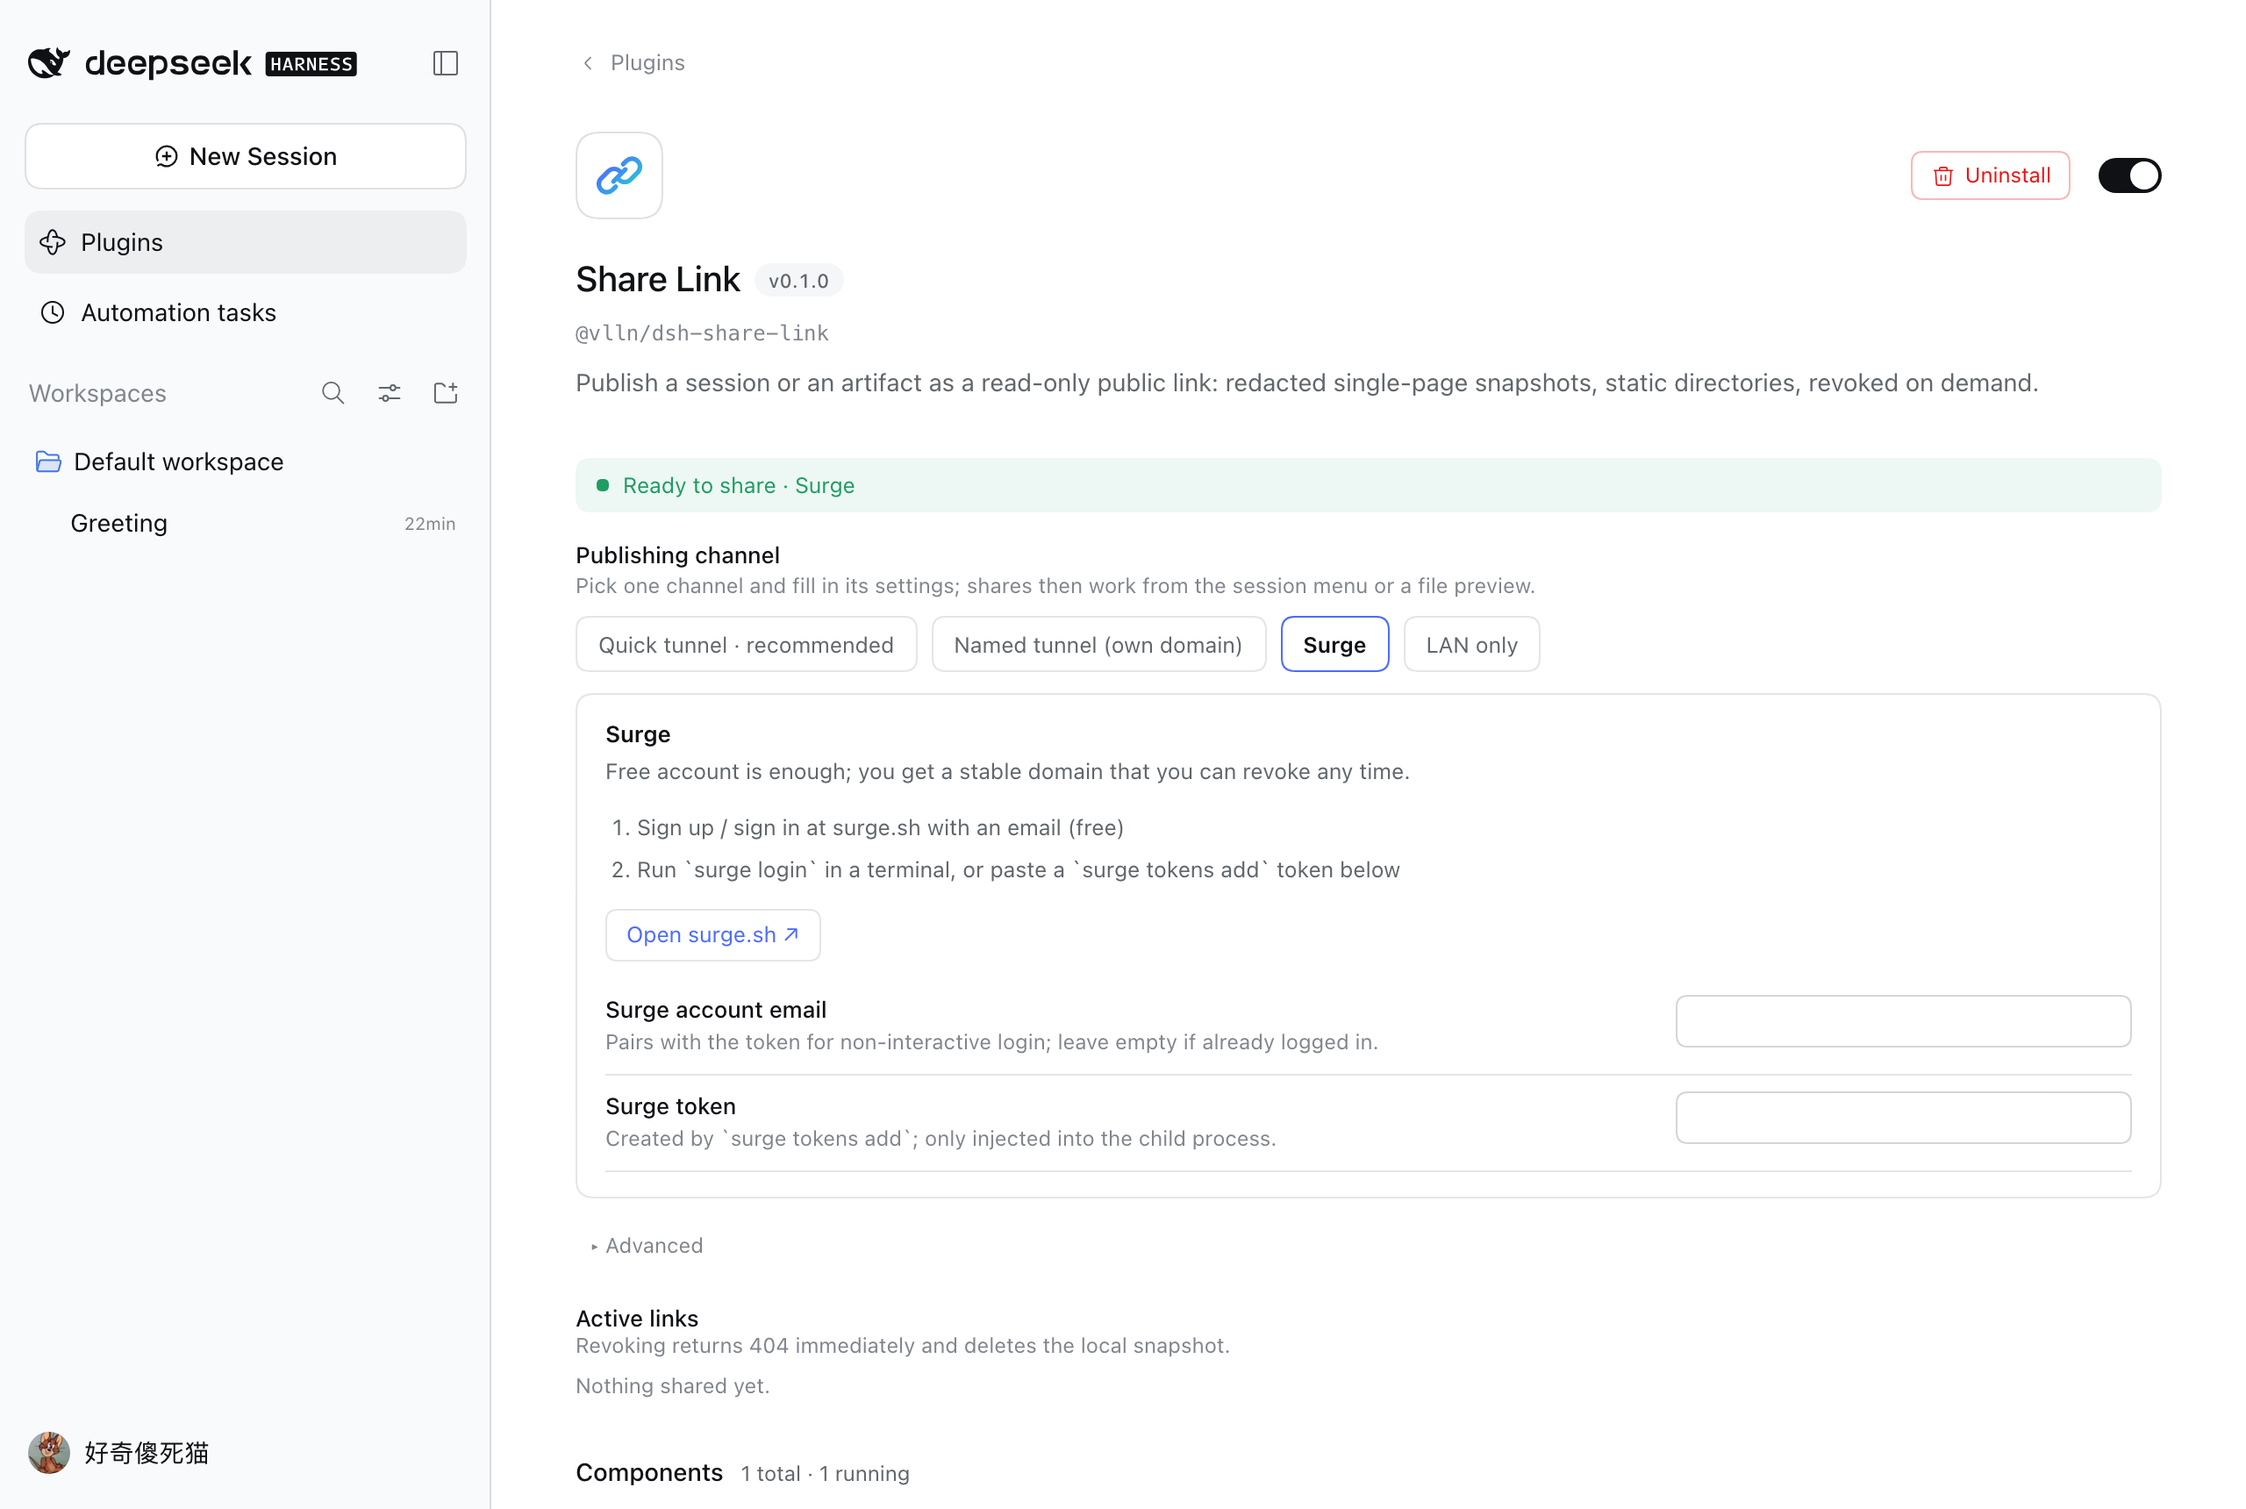
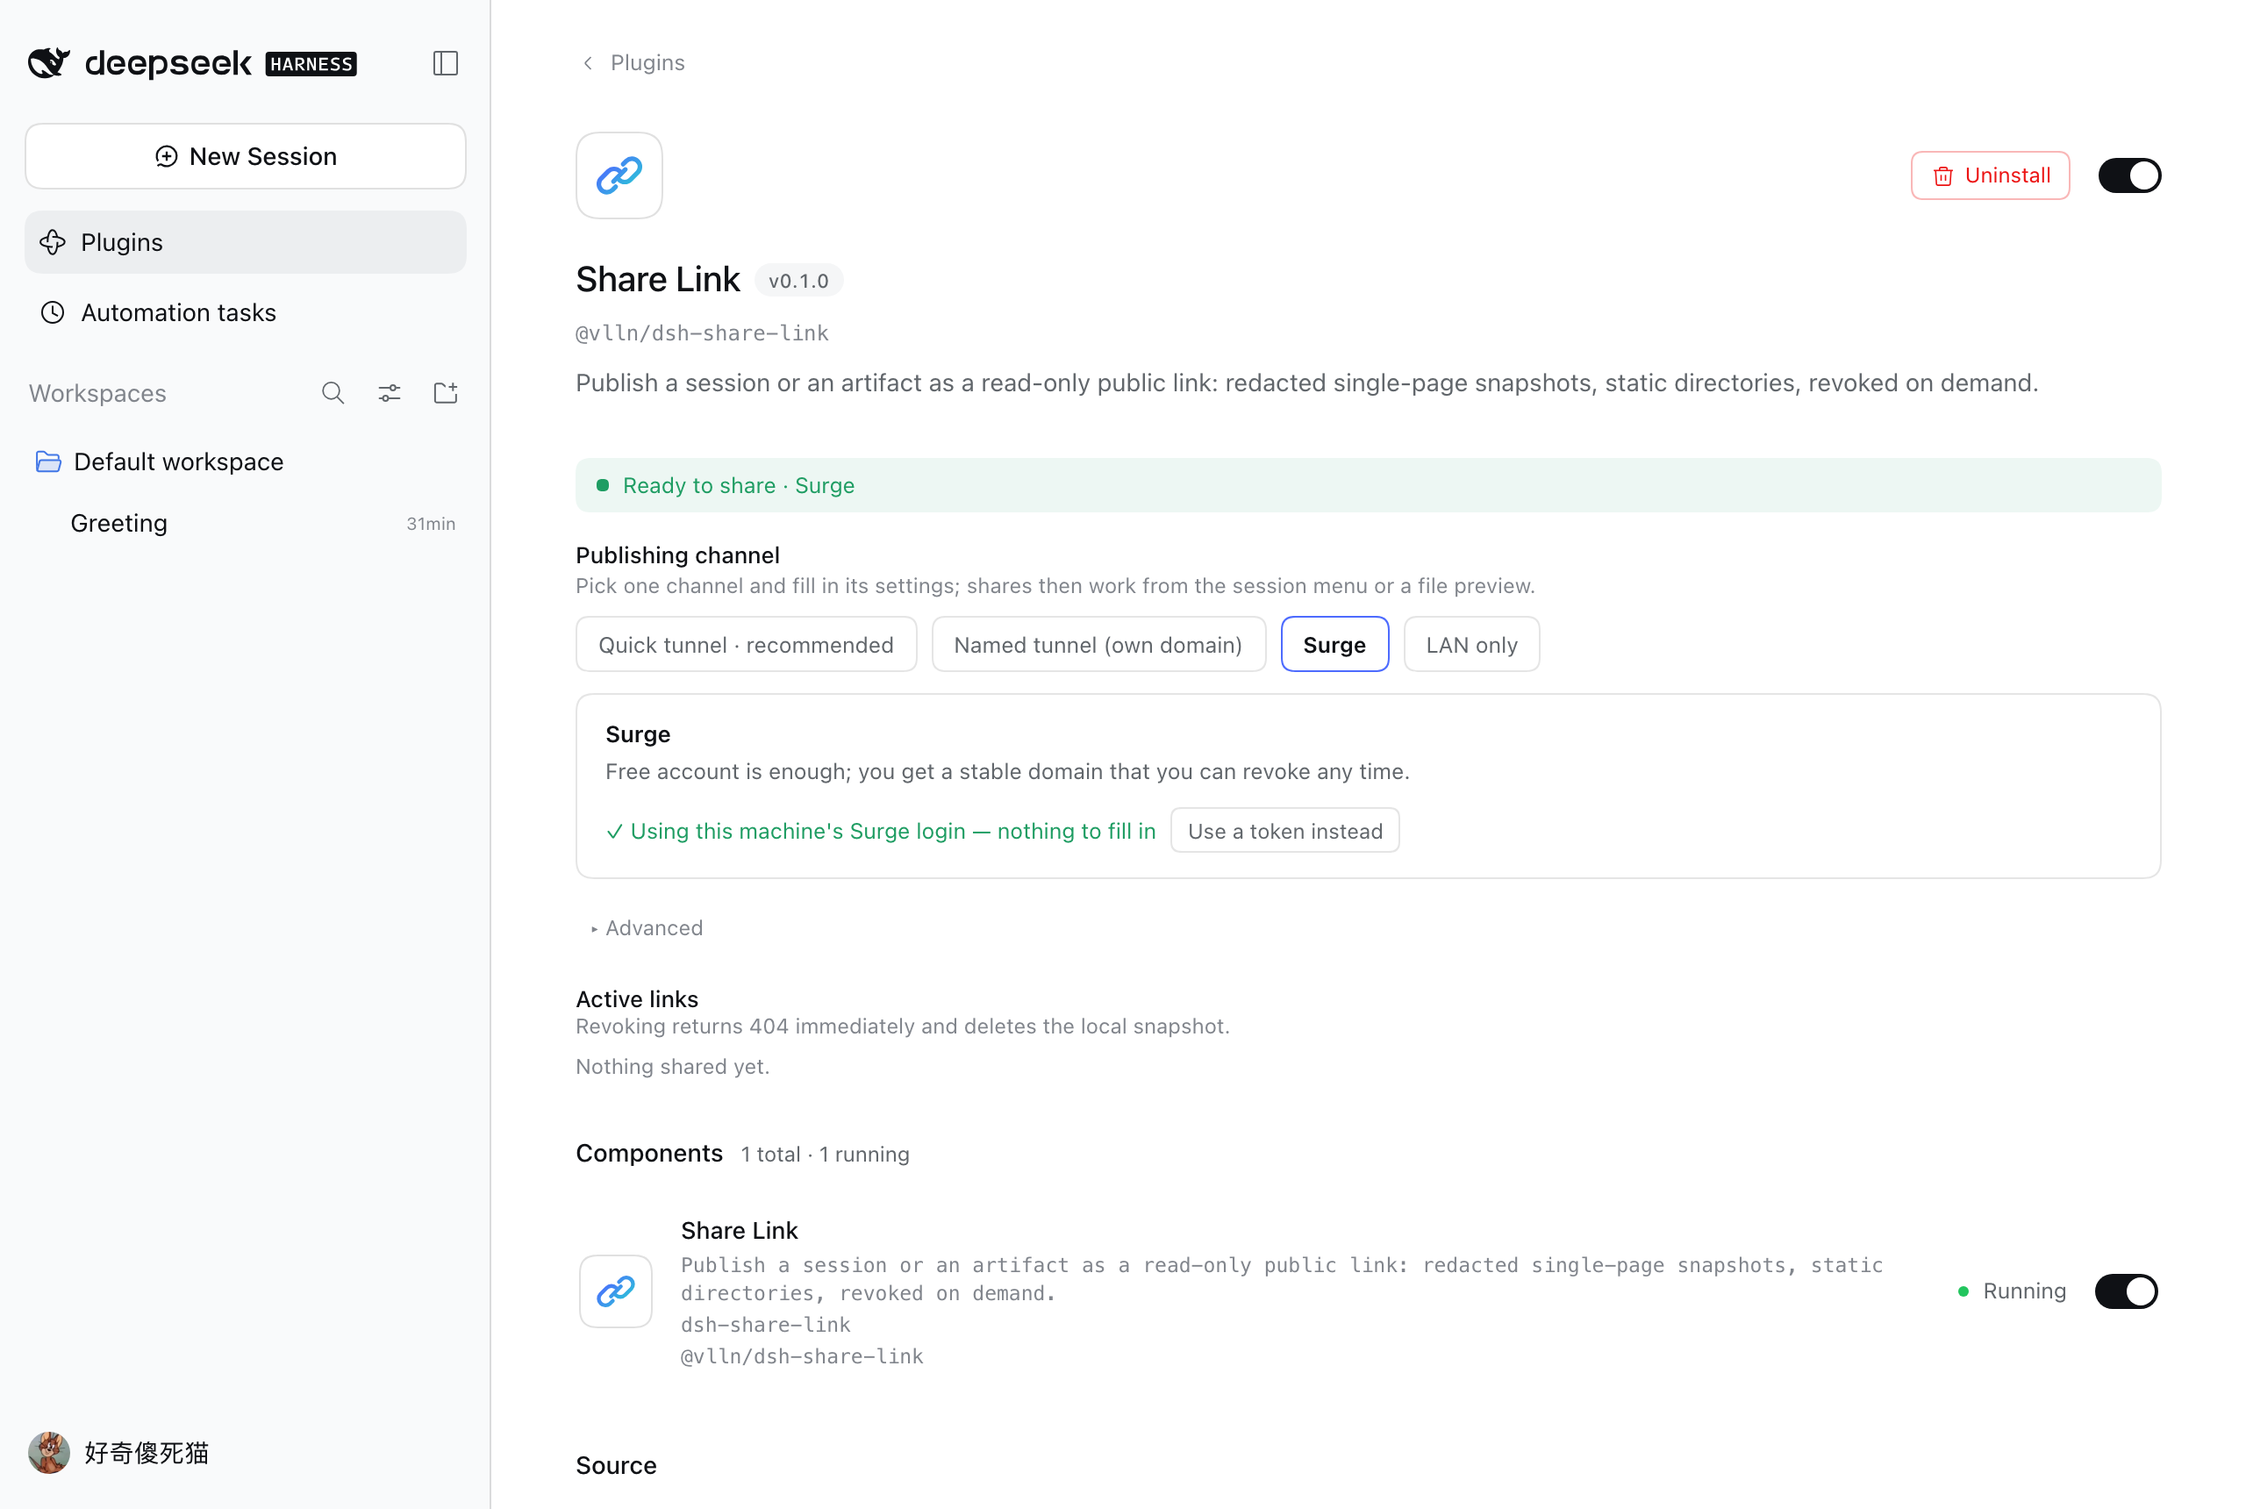
feat(ux): Surge 就绪时零字段；未就绪给步骤 + 可复制的 surge login
- status 返回 via（config-token / env-token / netrc）
- 本机已登录：隐藏步骤/入口/输入框，只留一行绿字与「改用 token」
- 未就绪：保留步骤、官方入口与一条可复制的 surge login 命令

diff --git a/src/client/settings-card.ts b/src/client/settings-card.ts
@@ -42,7 +42,7 @@ const CHANNEL_INFO = {
   surge: {
     name: (t) => t('channel.surge'),
     desc: (t) => t('channel.surge.desc'),
-    fields: ['surgeLogin', 'surgeToken'],
+    fields: ['surgeToken'],
     steps: (t) => [t('step.surge.1'), t('step.surge.2')],
     link: { href: 'https://surge.sh/', text: (t) => t('link.surge') },
   },
@@ -195,6 +195,30 @@ function SharesPanel(props) {
   )
 }
 
+/** 复制一条命令（用在 surge login 这类"必须开终端"的步骤上）。 */
+function CopyCommand(props) {
+  const { command, t } = props
+  const [done, setDone] = React.useState(false)
+  return el('button', {
+    type: 'button',
+    'data-copy-command': command,
+    onClick: async () => {
+      try {
+        await navigator.clipboard.writeText(command)
+        setDone(true)
+        setTimeout(() => setDone(false), 1400)
+      } catch {
+        /* 手动选中即可 */
+      }
+    },
+    style: {
+      height: 26, padding: '0 9px', borderRadius: 7, cursor: 'pointer',
+      border: '0.5px solid var(--dsw-alias-border-l2)', background: 'transparent',
+      color: 'var(--dsw-alias-label-secondary)', fontSize: 12,
+    },
+  }, done ? t('copied') : t('copy'))
+}
+
 /** 设置卡本体。 */
 export function SettingsCard(props) {
   const state = props.useShareSettings((value) => value)
@@ -202,6 +226,7 @@ export function SettingsCard(props) {
   const [resetToken, setResetToken] = React.useState(0)
   const [failed, setFailed] = React.useState('')
   const [advanced, setAdvanced] = React.useState(false)
+  const [showToken, setShowToken] = React.useState(false)
   const [status, setStatus] = React.useState(null)
   const channel = channelOf(state.value ?? {})
 
@@ -237,6 +262,10 @@ export function SettingsCard(props) {
     if (target.id === 'quick' || target.id === 'named') commit('tunnelMode', target.id)
   }
 
+  // 本机已登录 Surge 时，步骤与入口都不再需要（还有 "改用 token" 的出口）。
+  const settled =
+    channel === 'surge' && status !== null && status.ready === true && status.via === 'netrc' &&
+    (state.value.surgeToken ?? '') === '' && !showToken
   const info = CHANNEL_INFO[channel]
   const steps = info.steps === undefined ? [] : info.steps(t)
   const field = (key) =>
@@ -311,14 +340,27 @@ export function SettingsCard(props) {
       },
       el('div', { style: { fontSize: 13, fontWeight: 600, marginBottom: 4 } }, info.name(t)),
       el('div', { style: { fontSize: 12.5, lineHeight: 1.6, color: 'var(--dsw-alias-label-secondary)' } }, info.desc(t)),
-      steps.length === 0
+      steps.length === 0 || settled
         ? null
         : el(
             'ol',
             { style: { margin: '10px 0 0', paddingLeft: 18, fontSize: 12.5, lineHeight: 1.9, color: 'var(--dsw-alias-label-secondary)' } },
             steps.map((step, index) => el('li', { key: index }, step)),
           ),
-      info.link === undefined
+      channel === 'surge' && (status === null || status.ready === false)
+        ? el(
+            'div',
+            { style: { marginTop: 10, display: 'flex', alignItems: 'center', gap: 8, flexWrap: 'wrap' } },
+            el('code', {
+              style: {
+                font: '11.5px/1.9 ui-monospace, Menlo, monospace', padding: '2px 8px', borderRadius: 6,
+                border: '0.5px solid var(--dsw-alias-border-l2)', background: 'var(--dsw-alias-bg-elevated, #fff)',
+              },
+            }, 'surge login'),
+            el(CopyCommand, { command: 'surge login', t }),
+          )
+        : null,
+      info.link === undefined || settled
         ? null
         : el(
             'div',
@@ -336,8 +378,22 @@ export function SettingsCard(props) {
               },
             }, info.link.text(t), ' ↗'),
           ),
+      // Surge：本机已登录（~/.netrc）就什么都不用填，只给一个"改用 token"的出口
+      settled
+        ? el(
+            'div',
+            { 'data-share-surge-login': 'netrc', style: { marginTop: 10, display: 'flex', alignItems: 'center', gap: 8, flexWrap: 'wrap' } },
+            el('span', { style: { fontSize: 12.5, color: '#1f9d63' } }, `✓ ${t('surge.localLogin')}`),
+            el('button', {
+              type: 'button',
+              onClick: () => setShowToken(true),
+              style: { height: 26, padding: '0 9px', borderRadius: 7, border: '0.5px solid var(--dsw-alias-border-l2)', background: 'transparent', color: 'var(--dsw-alias-label-secondary)', fontSize: 12, cursor: 'pointer' },
+            }, t('surge.useToken')),
+          )
+        : null,
+
       // 需要的字段直接放在说明卡里，填完就是配好了
-      info.fields.length === 0
+      info.fields.length === 0 || settled
         ? null
         : el('div', { style: { display: 'flex', flexDirection: 'column', marginTop: 10 } }, info.fields.map(field)),
     ),
@@ -437,6 +493,10 @@ export const zh = {
   'step.surge.1': '用邮箱在 surge.sh 注册并登录（免费）',
   'step.surge.2': '在终端运行 surge login；或把 surge tokens add 生成的 token 填到下面',
   'link.surge': '打开 surge.sh',
+  copy: '复制',
+  copied: '已复制',
+  'surge.localLogin': '已使用本机 Surge 登录态，不用填任何东西',
+  'surge.useToken': '改用 token',
   'step.named.1': 'Cloudflare Zero Trust → Networks → Tunnels → 创建隧道',
   'step.named.2': '给隧道加 Public Hostname，指向 localhost:3089',
   'step.named.3': '把隧道 token 和完整域名填到下面',
@@ -488,6 +548,10 @@ export const en = {
   'step.surge.1': 'Sign up / sign in at surge.sh with an email (free)',
   'step.surge.2': 'Run `surge login` in a terminal, or paste a `surge tokens add` token below',
   'link.surge': 'Open surge.sh',
+  copy: 'Copy',
+  copied: 'Copied',
+  'surge.localLogin': 'Using this machine\'s Surge login — nothing to fill in',
+  'surge.useToken': 'Use a token instead',
   'step.named.1': 'Cloudflare Zero Trust → Networks → Tunnels → create a tunnel',
   'step.named.2': 'Add a Public Hostname pointing at localhost:3089',
   'step.named.3': 'Paste the tunnel token and the full hostname below',

diff --git a/lib/client.js b/lib/client.js
@@ -78,7 +78,7 @@ window.__ModuleLoader__.load({
 			surge: {
 				name: (t) => t("channel.surge"),
 				desc: (t) => t("channel.surge.desc"),
-				fields: ["surgeLogin", "surgeToken"],
+				fields: ["surgeToken"],
 				steps: (t) => [t("step.surge.1"), t("step.surge.2")],
 				link: {
 					href: "https://surge.sh/",
@@ -291,6 +291,32 @@ window.__ModuleLoader__.load({
 				}
 			}, pending === row.id ? t("shares.revoking") : t("shares.revoke")))));
 		}
+		/** 复制一条命令（用在 surge login 这类"必须开终端"的步骤上）。 */
+		function CopyCommand(props) {
+			const { command, t } = props;
+			const [done, setDone] = react.default.useState(false);
+			return el("button", {
+				type: "button",
+				"data-copy-command": command,
+				onClick: async () => {
+					try {
+						await navigator.clipboard.writeText(command);
+						setDone(true);
+						setTimeout(() => setDone(false), 1400);
+					} catch {}
+				},
+				style: {
+					height: 26,
+					padding: "0 9px",
+					borderRadius: 7,
+					cursor: "pointer",
+					border: "0.5px solid var(--dsw-alias-border-l2)",
+					background: "transparent",
+					color: "var(--dsw-alias-label-secondary)",
+					fontSize: 12
+				}
+			}, done ? t("copied") : t("copy"));
+		}
 		/** 设置卡本体。 */
 		function SettingsCard(props) {
 			const state = props.useShareSettings((value) => value);
@@ -298,6 +324,7 @@ window.__ModuleLoader__.load({
 			const [resetToken, setResetToken] = react.default.useState(0);
 			const [failed, setFailed] = react.default.useState("");
 			const [advanced, setAdvanced] = react.default.useState(false);
+			const [showToken, setShowToken] = react.default.useState(false);
 			const [status, setStatus] = react.default.useState(null);
 			const channel = channelOf(state.value ?? {});
 			react.default.useEffect(() => {
@@ -325,6 +352,7 @@ window.__ModuleLoader__.load({
 				commit("provider", target.provider);
 				if (target.id === "quick" || target.id === "named") commit("tunnelMode", target.id);
 			};
+			const settled = channel === "surge" && status !== null && status.ready === true && status.via === "netrc" && (state.value.surgeToken ?? "") === "" && !showToken;
 			const info = CHANNEL_INFO[channel];
 			const steps = info.steps === void 0 ? [] : info.steps(t);
 			const field = (key) => el(Field, {
@@ -411,13 +439,28 @@ window.__ModuleLoader__.load({
 				fontSize: 12.5,
 				lineHeight: 1.6,
 				color: "var(--dsw-alias-label-secondary)"
-			} }, info.desc(t)), steps.length === 0 ? null : el("ol", { style: {
+			} }, info.desc(t)), steps.length === 0 || settled ? null : el("ol", { style: {
 				margin: "10px 0 0",
 				paddingLeft: 18,
 				fontSize: 12.5,
 				lineHeight: 1.9,
 				color: "var(--dsw-alias-label-secondary)"
-			} }, steps.map((step, index) => el("li", { key: index }, step))), info.link === void 0 ? null : el("div", { style: { marginTop: 10 } }, el("a", {
+			} }, steps.map((step, index) => el("li", { key: index }, step))), channel === "surge" && (status === null || status.ready === false) ? el("div", { style: {
+				marginTop: 10,
+				display: "flex",
+				alignItems: "center",
+				gap: 8,
+				flexWrap: "wrap"
+			} }, el("code", { style: {
+				font: "11.5px/1.9 ui-monospace, Menlo, monospace",
+				padding: "2px 8px",
+				borderRadius: 6,
+				border: "0.5px solid var(--dsw-alias-border-l2)",
+				background: "var(--dsw-alias-bg-elevated, #fff)"
+			} }, "surge login"), el(CopyCommand, {
+				command: "surge login",
+				t
+			})) : null, info.link === void 0 || settled ? null : el("div", { style: { marginTop: 10 } }, el("a", {
 				href: info.link.href,
 				target: "_blank",
 				rel: "noreferrer",
@@ -435,7 +478,32 @@ window.__ModuleLoader__.load({
 					border: "0.5px solid var(--dsw-alias-border-l2)",
 					background: "var(--dsw-alias-bg-elevated, #fff)"
 				}
-			}, info.link.text(t), " ↗")), info.fields.length === 0 ? null : el("div", { style: {
+			}, info.link.text(t), " ↗")), settled ? el("div", {
+				"data-share-surge-login": "netrc",
+				style: {
+					marginTop: 10,
+					display: "flex",
+					alignItems: "center",
+					gap: 8,
+					flexWrap: "wrap"
+				}
+			}, el("span", { style: {
+				fontSize: 12.5,
+				color: "#1f9d63"
+			} }, `✓ ${t("surge.localLogin")}`), el("button", {
+				type: "button",
+				onClick: () => setShowToken(true),
+				style: {
+					height: 26,
+					padding: "0 9px",
+					borderRadius: 7,
+					border: "0.5px solid var(--dsw-alias-border-l2)",
+					background: "transparent",
+					color: "var(--dsw-alias-label-secondary)",
+					fontSize: 12,
+					cursor: "pointer"
+				}
+			}, t("surge.useToken"))) : null, info.fields.length === 0 || settled ? null : el("div", { style: {
 				display: "flex",
 				flexDirection: "column",
 				marginTop: 10
@@ -547,6 +615,10 @@ window.__ModuleLoader__.load({
 			"step.surge.1": "用邮箱在 surge.sh 注册并登录（免费）",
 			"step.surge.2": "在终端运行 surge login；或把 surge tokens add 生成的 token 填到下面",
 			"link.surge": "打开 surge.sh",
+			copy: "复制",
+			copied: "已复制",
+			"surge.localLogin": "已使用本机 Surge 登录态，不用填任何东西",
+			"surge.useToken": "改用 token",
 			"step.named.1": "Cloudflare Zero Trust → Networks → Tunnels → 创建隧道",
 			"step.named.2": "给隧道加 Public Hostname，指向 localhost:3089",
 			"step.named.3": "把隧道 token 和完整域名填到下面",
@@ -597,6 +669,10 @@ window.__ModuleLoader__.load({
 			"step.surge.1": "Sign up / sign in at surge.sh with an email (free)",
 			"step.surge.2": "Run `surge login` in a terminal, or paste a `surge tokens add` token below",
 			"link.surge": "Open surge.sh",
+			copy: "Copy",
+			copied: "Copied",
+			"surge.localLogin": "Using this machine's Surge login — nothing to fill in",
+			"surge.useToken": "Use a token instead",
 			"step.named.1": "Cloudflare Zero Trust → Networks → Tunnels → create a tunnel",
 			"step.named.2": "Add a Public Hostname pointing at localhost:3089",
 			"step.named.3": "Paste the tunnel token and the full hostname below",

diff --git a/README.md b/README.md
@@ -59,9 +59,12 @@ dsh plugin --profile web add @vlln/dsh-share-link
 
 - 顶部一条状态：绿色「可以分享 · 当前渠道」或黄色「还不能分享 · 缺什么」，不用自己判断。
 - 四个渠道按钮，「快速隧道」标着**推荐**——选它就是零配置，dsh 在跑就有链接。
-- 选中渠道后，卡片里直接给**一句话说明 + 编号步骤 + 官方入口按钮**：
+- 选中渠道后，卡片里直接给**一句话说明 + 编号步骤 + 官方入口按钮**；**已经就绪时只剩一行绿字**，不摆任何字段：
 
-![Surge 渠道：步骤与入口](docs/preview-settings-surge.png)
+![Surge 已就绪：什么都不用填](docs/preview-settings-surge.png)
+
+  本机跑过 `surge login`（凭据在 `~/.netrc`）或设了 `SURGE_TOKEN` 环境变量，Surge 就直接可用；
+  想改用 token 才点「Use a token instead」展开输入框。
 
 - 只有该渠道真正需要的字段才出现（Surge 两个、命名隧道两个），其余收进折叠的**高级设置**（端口 / 有效期 / 域名后缀）。
 - 参数**即时写入**：失焦或回车就生效，没有"保存"按钮，也不需要在命令行改 YAML。
